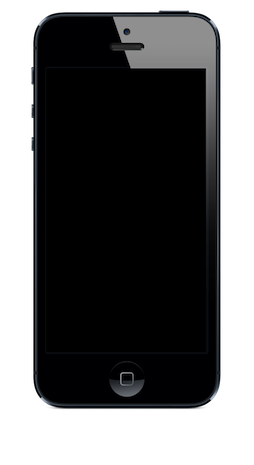
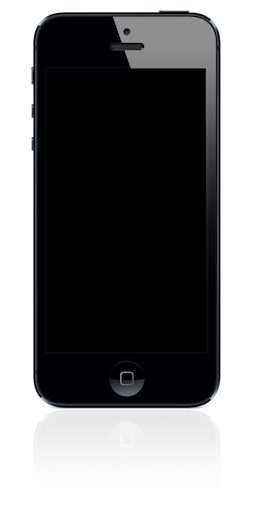
Add reflection to the iPhone image.

Changed region(s): [[0.1102, 0.7226, 0.8819, 0.9032], [0.1102, 0.0, 0.8819, 0.1505], [0.1102, 0.1204, 0.1378, 0.3312]]

diff --git a/web/index.html b/web/index.html
@@ -64,7 +64,7 @@
       top: 194px;
       left: 521px; 
       width: 254px;
-      height: 465px;
+      height: 511px;
       background-size: 100%;
       background-image: url(iphone_outer.png);
       background-repeat: no-repeat;
